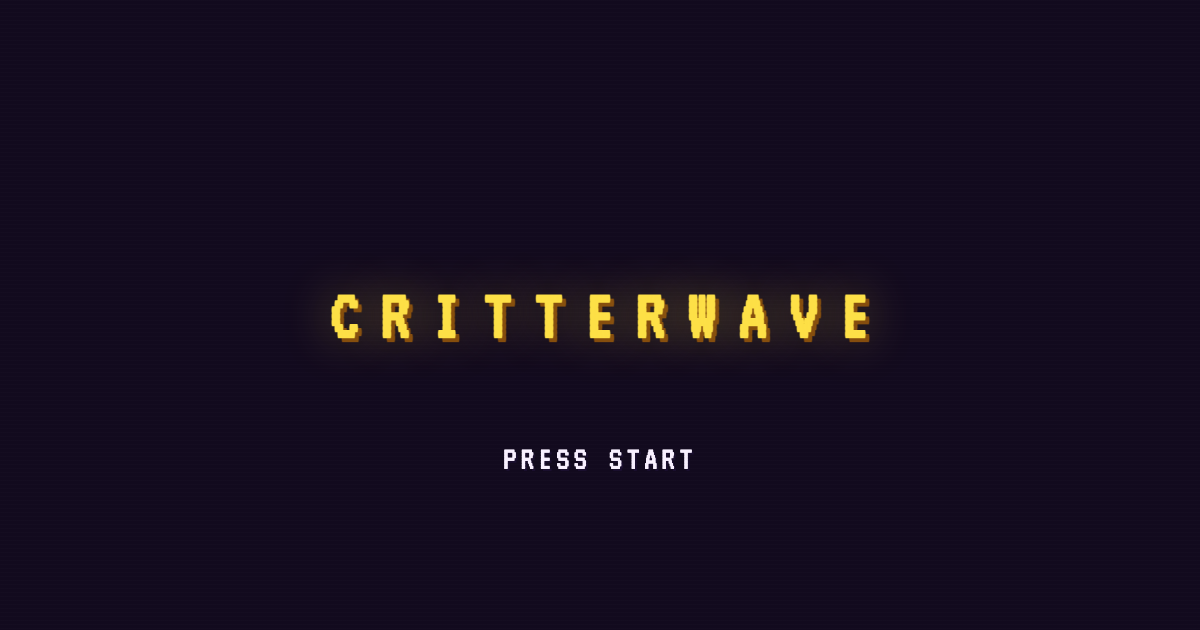
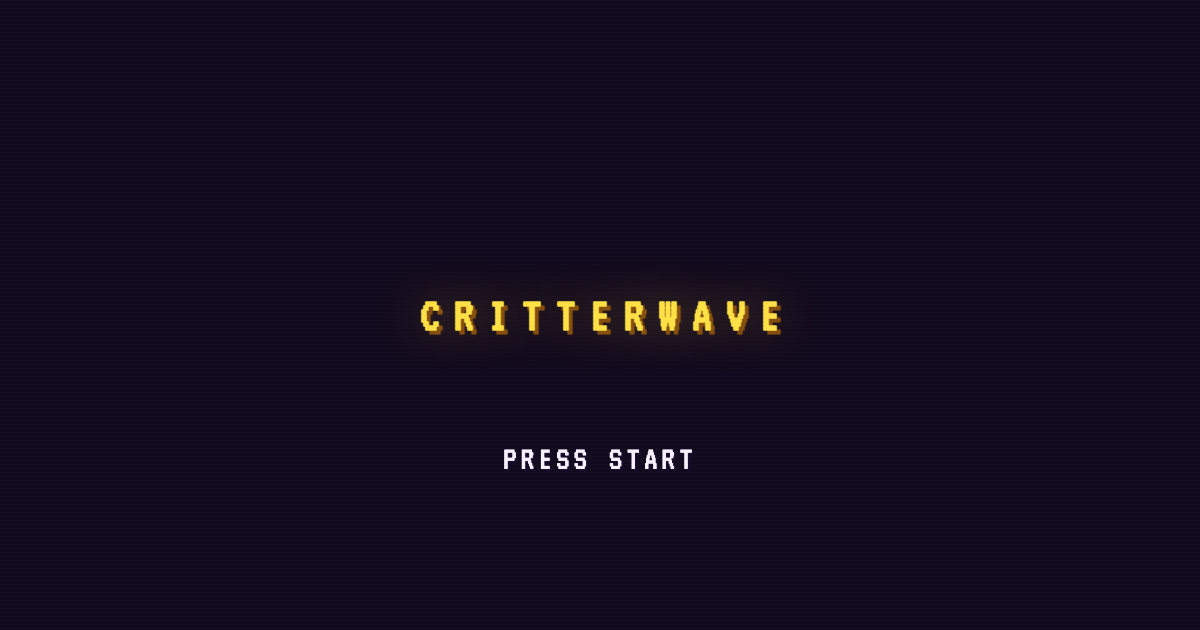
Fit cover title to itch card crop

Changed region(s): [[0.2775, 0.4524, 0.74, 0.5429]]

diff --git a/scripts/og-preview.html b/scripts/og-preview.html
@@ -50,8 +50,8 @@
         z-index: 1;
         display: flex;
         justify-content: space-between;
-        width: min(540px, 72%);
-        font-size: 74px;
+        width: min(360px, 62%);
+        font-size: 50px;
         line-height: 1;
         color: #fde047;
         text-shadow:
